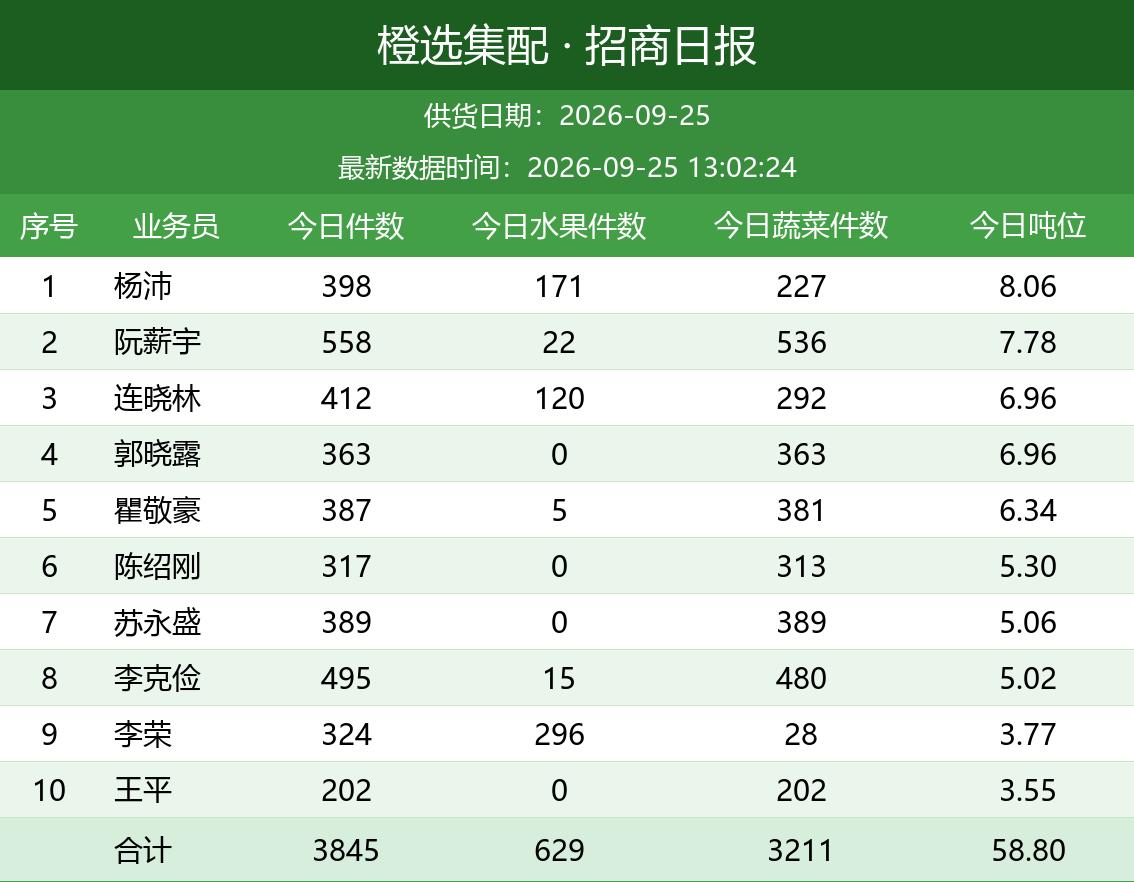
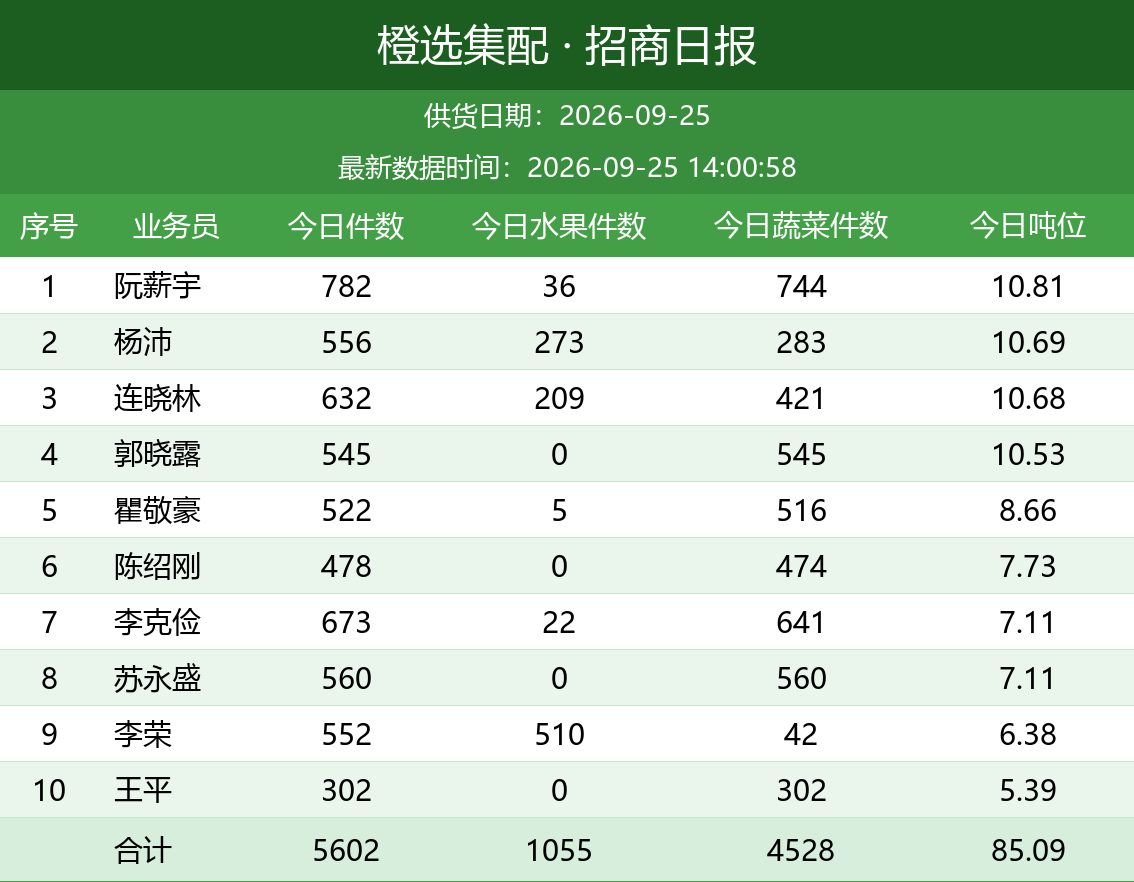
自动更新日报图片

diff --git a/daily_report/index.html b/daily_report/index.html
@@ -11,7 +11,7 @@ img { max-width: 100%; border: 1px solid #e5e5e5; margin-bottom: 24px; display: 
 </style>
 </head>
 <body>
-<h1>橙选集配日报图片（20260925_130344）</h1>
+<h1>橙选集配日报图片（20260925_140257）</h1>
 <img src="bd_latest.png" alt="BD 日报">
 <img src="wh_latest.png" alt="城市仓日报">
 <img src="zs_latest.png" alt="招商日报">
